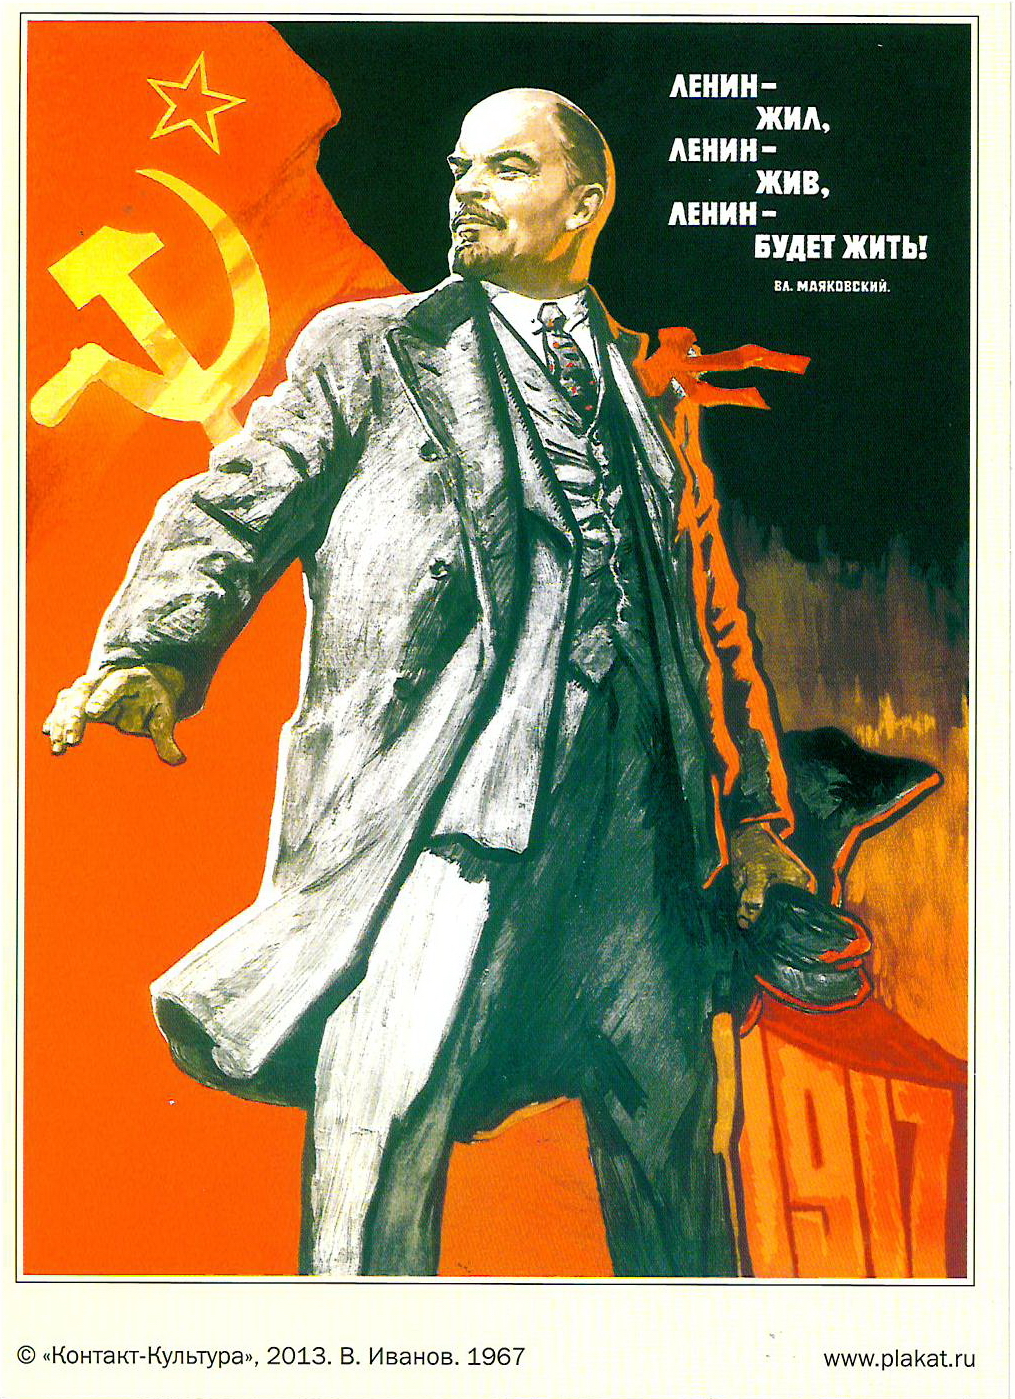
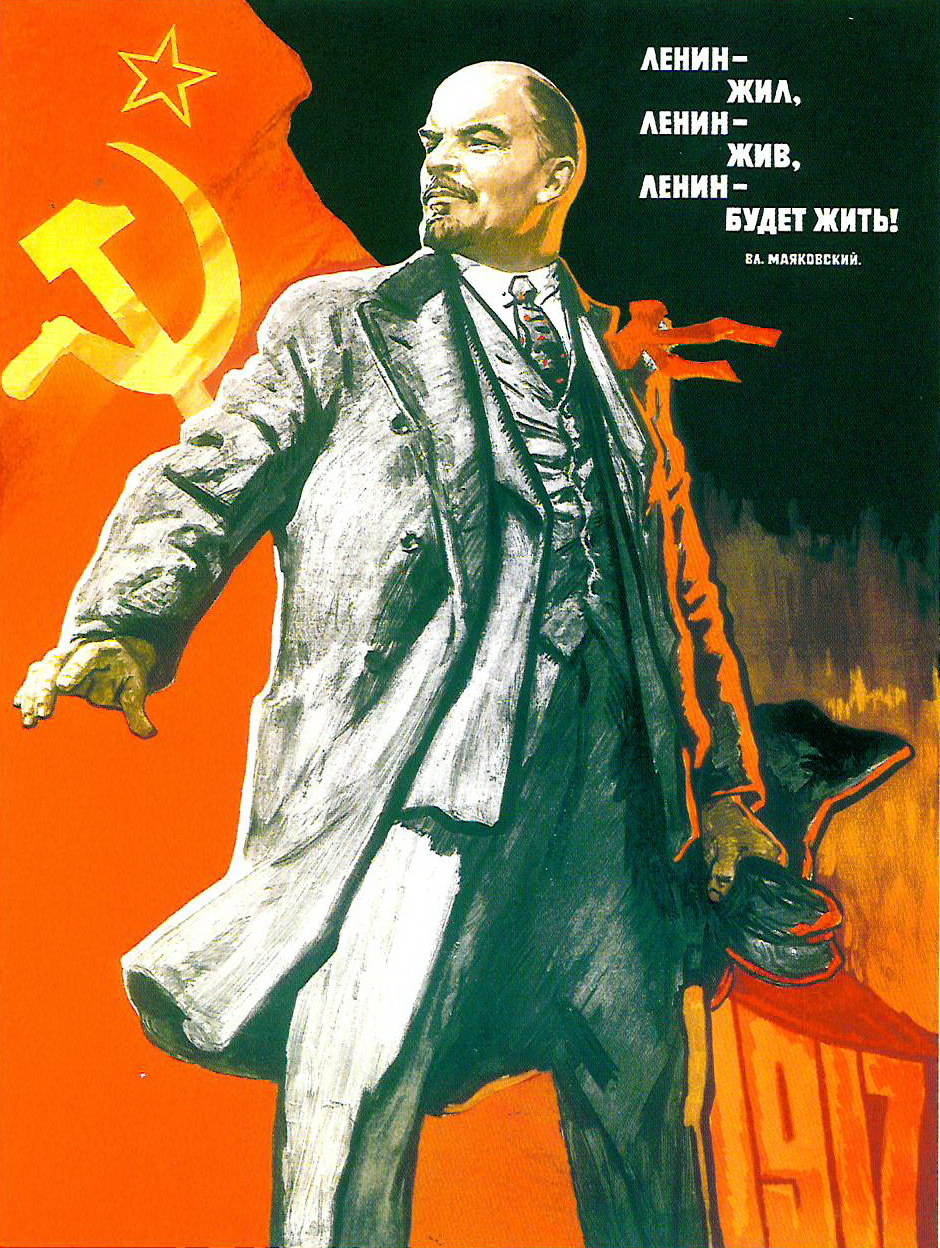
y

diff --git a/index.html b/index.html
@@ -6,14 +6,28 @@
 		body{
 			margin: 0;
 			padding: 0;
+
+			
 		}
 		img{
-			width: 100%;
-			height: auto;
+			height: 100vh;
+			width: auto;
 		}
+		.ded{
+			width: 100vw;
+			height: 100vh;
+			background-image: url('komm.jpg');
+			display: flex;
+			justify-content: center;
+			
+
+		}
+		
 	</style>
 </head>
 <body>
-<img src="lenin.jpg">
+	<div class='ded'>
+		<img src="lenin.jpg">
+	</div>
 </body>
 </html>
